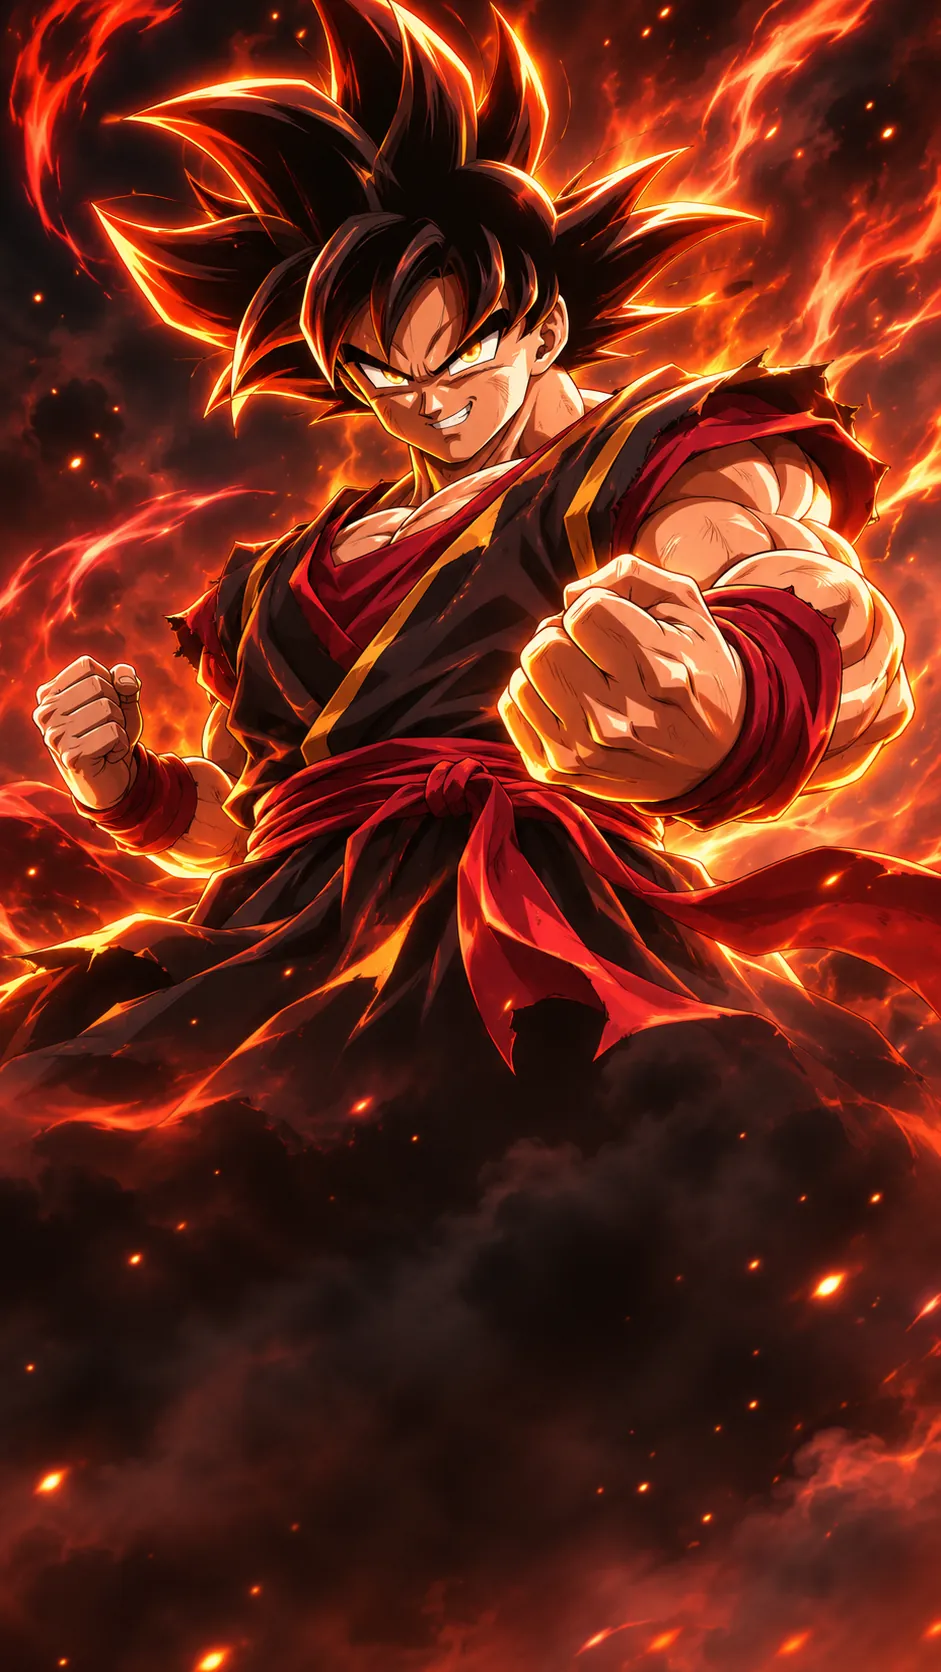
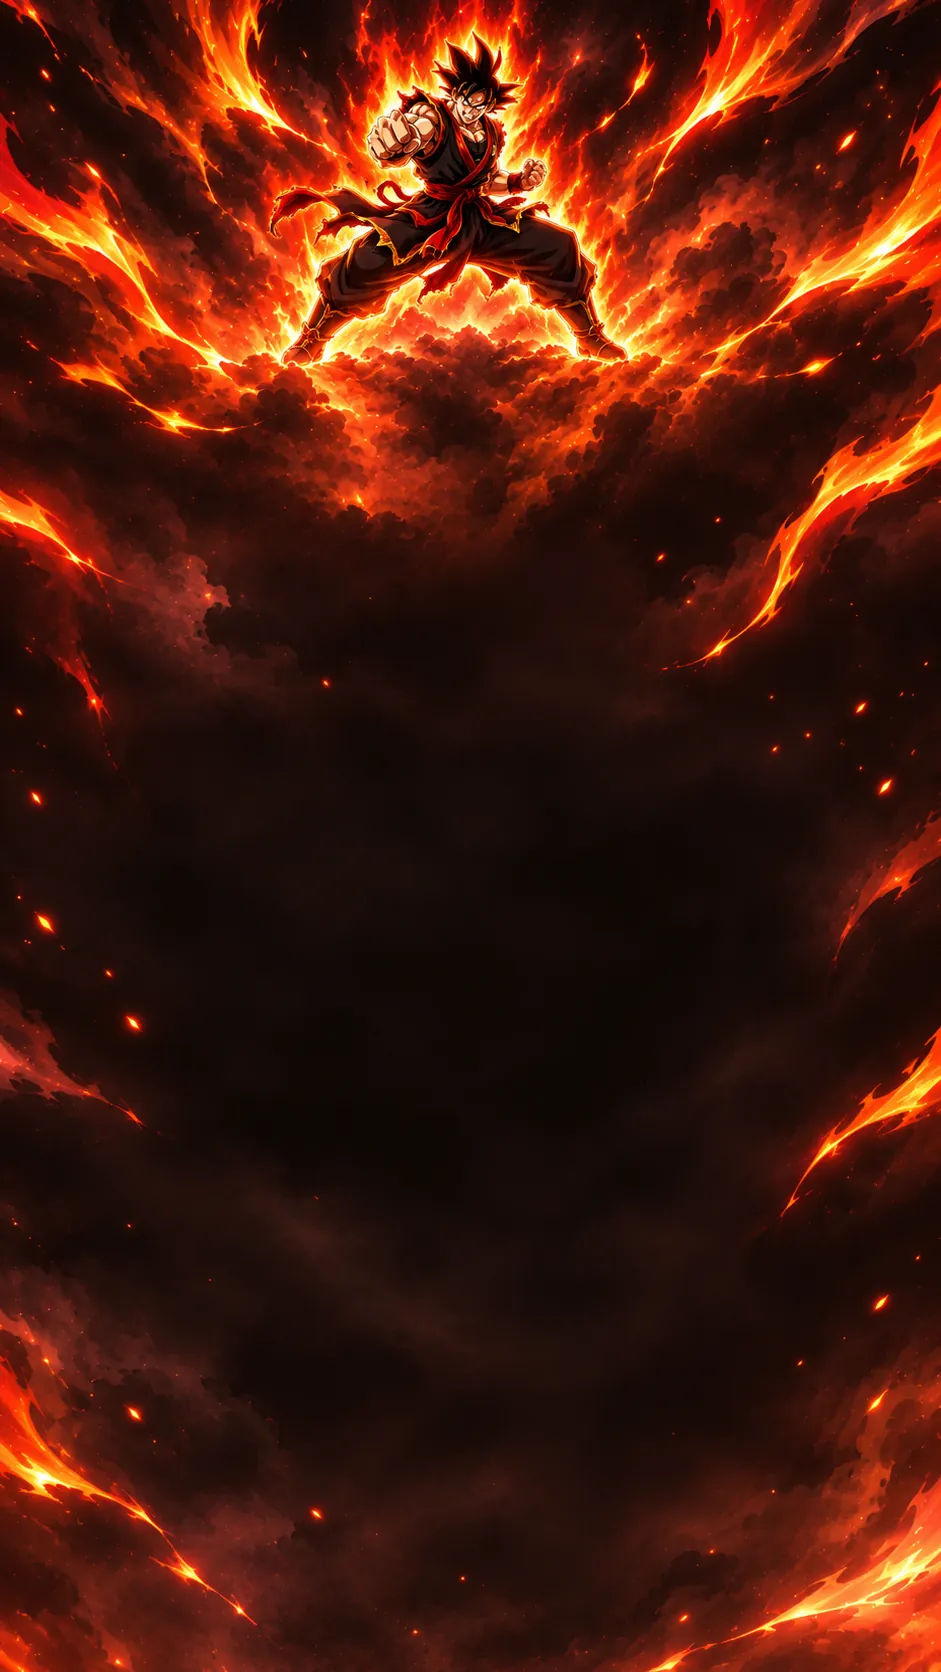
Use new portrait theme backgrounds with a small Goku at the top; make room for them on phones
Claude-Session: https://claude.ai/code/session_01V14ipnka5dctZxGHZPJo5t

diff --git a/artifacts/dice-roller/src/index.css b/artifacts/dice-roller/src/index.css
@@ -352,7 +352,7 @@
   .cosmos { --t-bg: var(--t-bg-portrait); }
   .theme-backdrop {
     background:
-      linear-gradient(180deg, rgba(4, 6, 17, .1) 0%, rgba(4, 6, 17, .3) 38%, rgba(4, 6, 17, .78) 100%),
+      linear-gradient(180deg, rgba(4, 6, 17, 0) 0%, rgba(4, 6, 17, .1) 38%, rgba(4, 6, 17, .42) 100%),
       var(--t-bg) center top / cover no-repeat,
       #050711;
   }
@@ -2149,6 +2149,13 @@
     margin-left: clamp(24px, 5vw, 110px);
     margin-right: auto;
   }
+}
+
+.brand-mark span { text-shadow: 0 1px 10px rgba(0, 0, 0, .85), 0 0 3px rgba(0, 0, 0, .6); }
+
+/* Phones: leave room under the top bar for the character artwork. */
+@media (orientation: portrait) and (max-width: 700px) {
+  .hero { padding-top: clamp(80px, 15.5dvh, 150px); }
 }
 
 /* --- Calmer path for touch devices and small screens --- */

diff --git a/artifacts/dice-roller/public/sw.js b/artifacts/dice-roller/public/sw.js
@@ -1,4 +1,4 @@
-const CACHE_NAME = "two-number-generator-v5";
+const CACHE_NAME = "two-number-generator-v6";
 const APP_SHELL = [
   "/",
   "/index.html",
